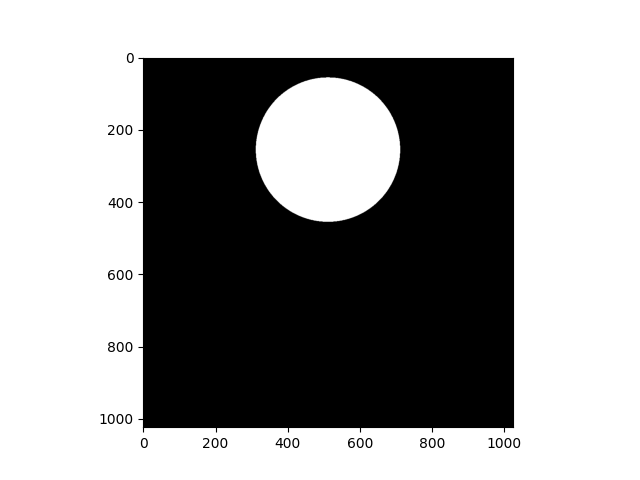
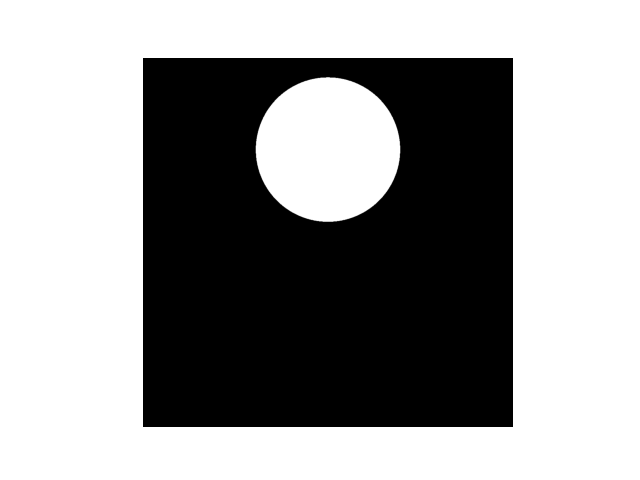
Result Images Updated with the Axis

diff --git a/pattern.py b/pattern.py
@@ -28,6 +28,7 @@ class Checker:
 
     def show(self):
         plt.imshow(self.output, cmap='gray')
+        plt.axis('off')
         plt.show()
 
 
@@ -52,6 +53,7 @@ class Circle:
 
     def show(self):
         plt.imshow(self.output, cmap='gray')
+        plt.axis('off')
         plt.show()
 
 
@@ -71,4 +73,5 @@ class Spectrum:
 
     def show(self):
         plt.imshow(self.output, cmap='gray')
+        plt.axis('off')
         plt.show()
